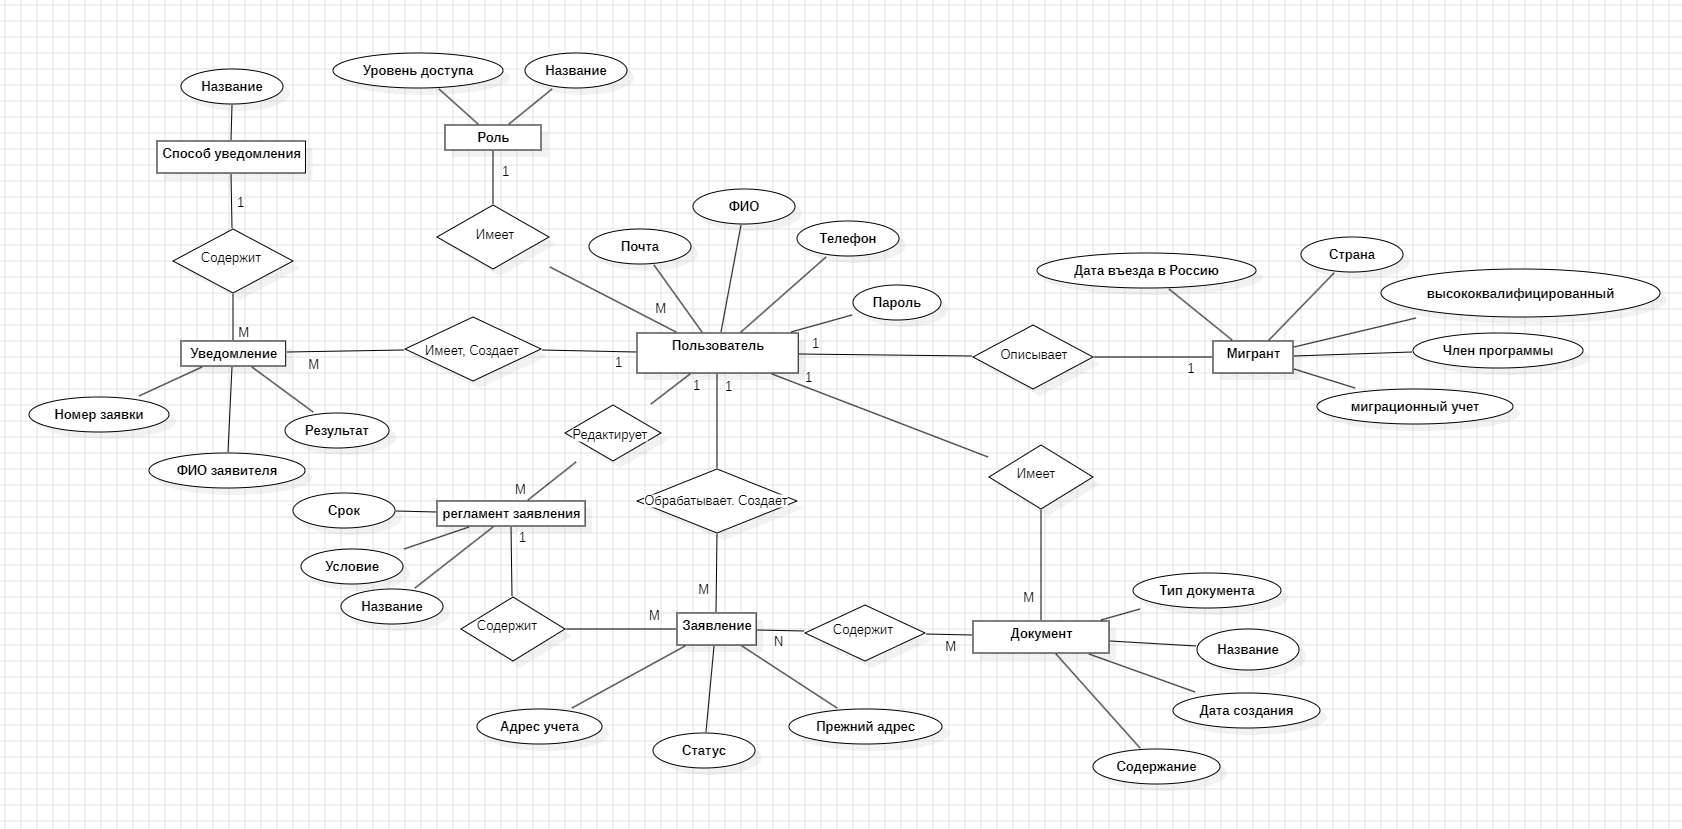
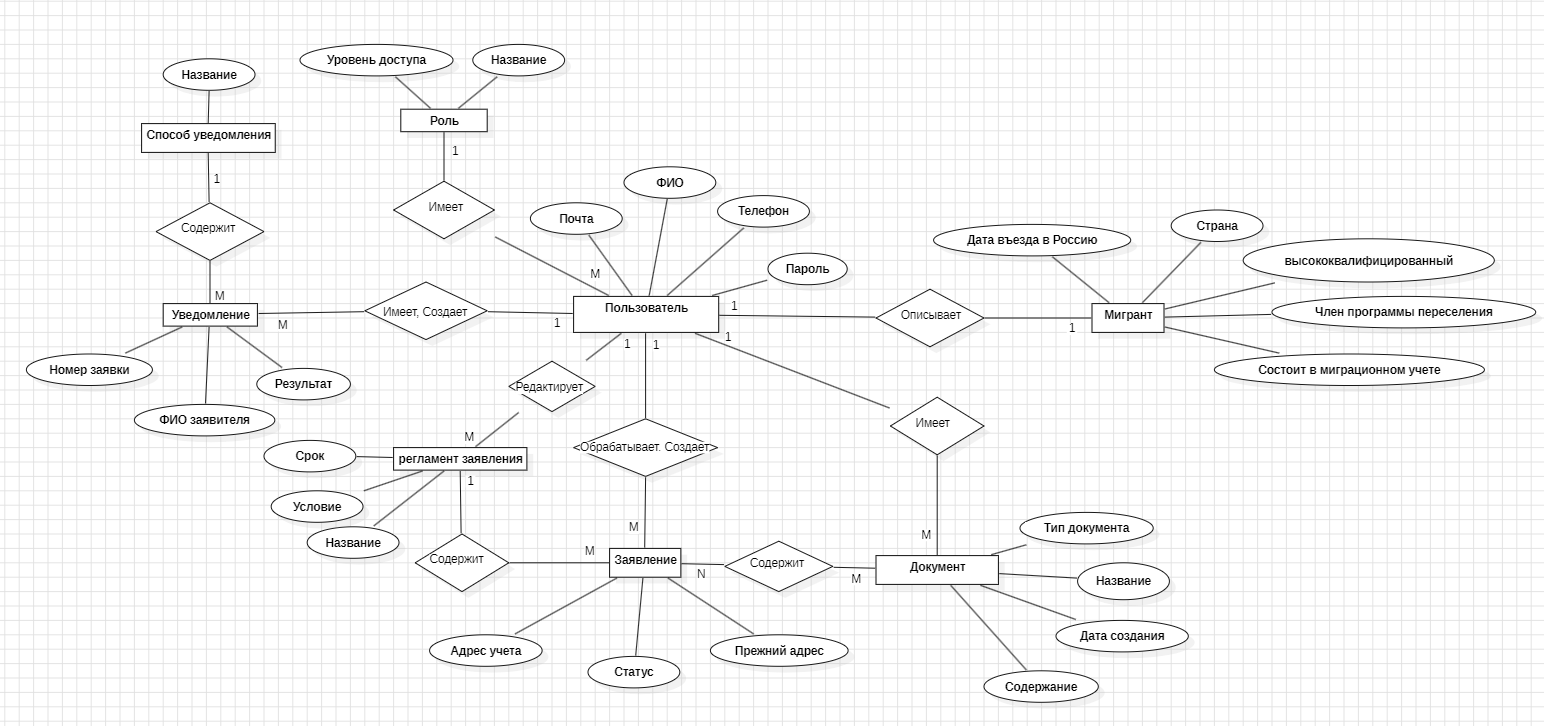
Update ERModel and ERModel description

Changed region(s): [[0.0, 0.0606, 0.9948, 0.9697], [0.2798, 0.8182, 0.5596, 0.9697], [0.4974, 0.4848, 0.5285, 0.5152]]

diff --git a/ERModel.md b/ERModel.md
@@ -65,12 +65,12 @@ lang=RU style='font-family:Symbol'>·<span style='font:7.0pt "Times New Roman"'>
 
 <p class=MsoListParagraphCxSpMiddle style='margin-left:71.25pt;text-indent:
 -.25in'><span lang=RU style='font-family:Symbol'>·<span style='font:7.0pt "Times New Roman"'>&nbsp;&nbsp;&nbsp;&nbsp;&nbsp;&nbsp;&nbsp;&nbsp;
-</span></span><span lang=RU>Член программы – входит ли мигрант в
+</span></span><span lang=RU>Член программы переселения – входит ли мигрант в
 государственную программу переселения</span></p>
 
 <p class=MsoListParagraphCxSpLast style='margin-left:71.25pt;text-indent:-.25in'><span
 lang=RU style='font-family:Symbol'>·<span style='font:7.0pt "Times New Roman"'>&nbsp;&nbsp;&nbsp;&nbsp;&nbsp;&nbsp;&nbsp;&nbsp;
-</span></span><span lang=RU>Миграционный учёт – Состоит ли член вашей семьи или
+</span></span><span lang=RU>Состоит в миграционном учете – Состоит ли член вашей семьи или
 вы на миграционном учёте ранее.</span></p>
 
 <p class=MsoNormal><span lang=RU>Документ – Сущность, описывающая документы,
